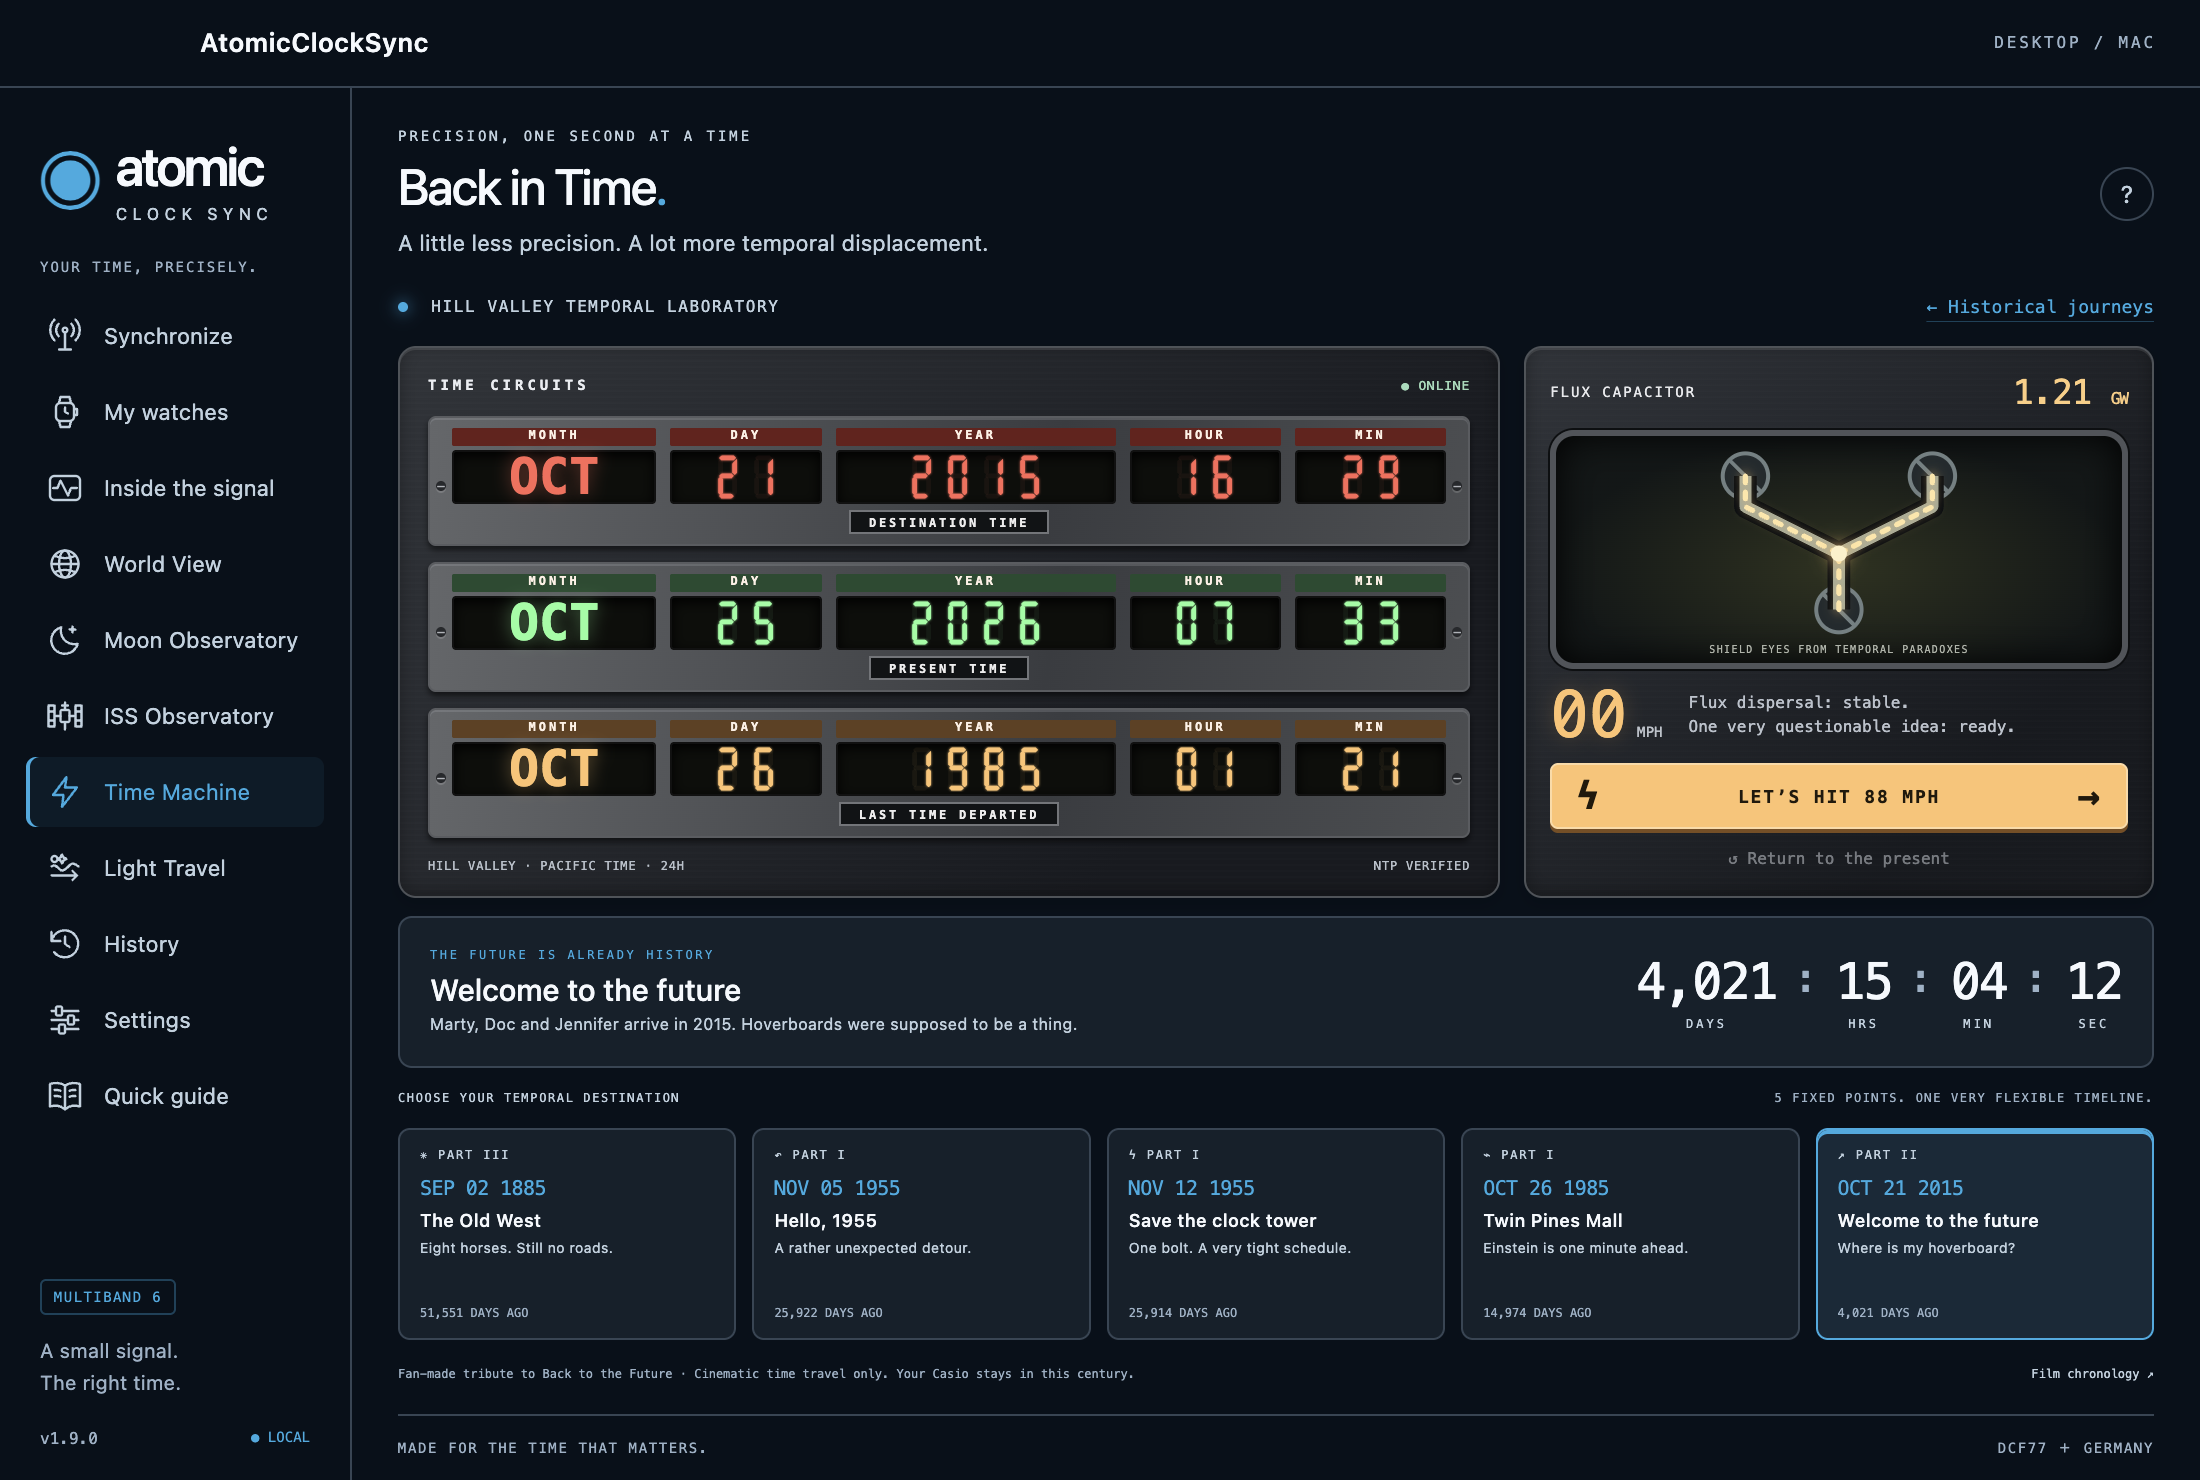
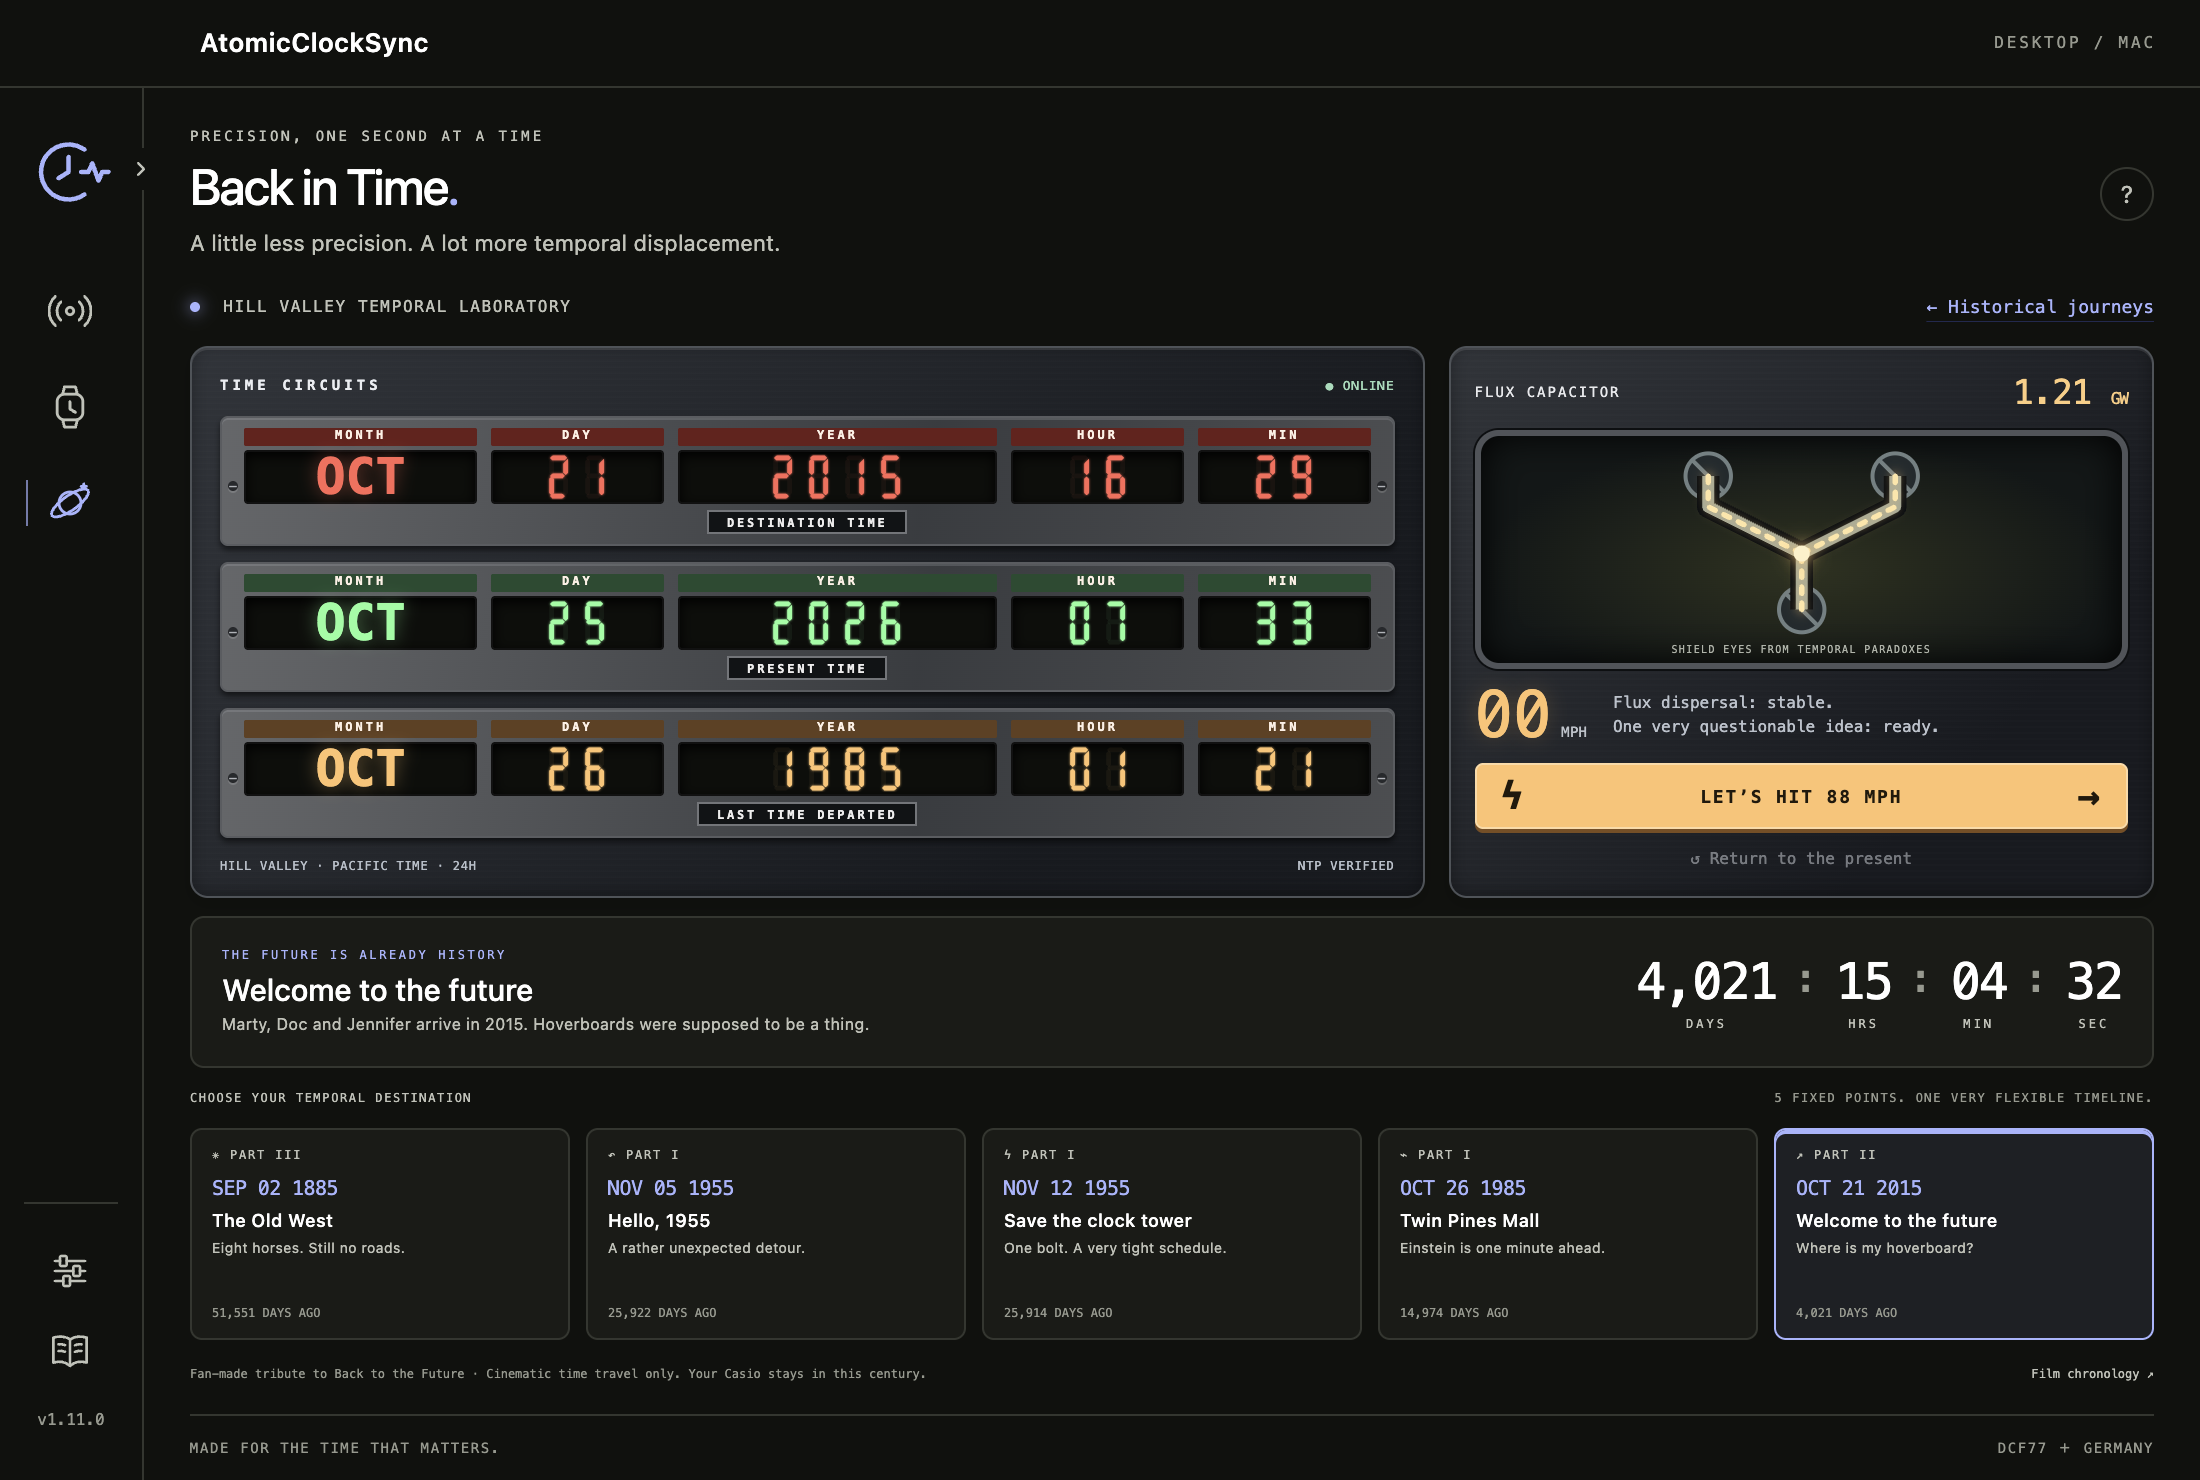
Refresh all README screenshots with Rainbow and Pulse Sync

diff --git a/README.md b/README.md
@@ -4,6 +4,15 @@ Sync compatible Casio watches through **Bluetooth** or simulated **Multiband 6 t
 
 ![Atomic Clock Sync — synchronization screen](docs/images/synchronization.png)
 
+Screenshots use the Rainbow theme, Pulse Sync branding and illustrative sample data. Views show the compact sidebar; expand the detail below to see its full navigation.
+
+<details>
+<summary>View the expanded Rainbow sidebar</summary>
+
+<img src="docs/images/sidebar-rainbow.png" alt="Pulse Sync logo and expanded sidebar in the Rainbow theme" width="236">
+
+</details>
+
 AtomicClockSync generates the time codes used by DCF77, MSF, WWVB, JJY and BPC. Choose a station, check the time, place your watch near a speaker or wired earphone, and start manual reception on the watch.
 
 Choose English, Italian, French, German, Spanish or Japanese in **Settings → Language**. Language changes apply immediately and are saved on this device. Source files and documentation are in English. Read the [full user guide](docs/USAGE.en.md) for setup, troubleshooting and protocol details.
@@ -229,7 +238,7 @@ Lime Green · Cyan Blue · Fuchsia Pink · Ruby Red · Champagne Gold · Seafoam
 
 The four pastel themes change only the accent color, preserving the original dark background and panels. Rainbow and Rainbow Soft share this dark base and assign blue to actions, violet to data, mint to the reference and confirmations, orange to transmission/progress and pink to errors. Choose a palette in **Settings → Theme**. The choice persists across launches and can change during transmission without changing audio settings.
 
-![Atlantic Blue theme in Settings](docs/images/settings-atlantic.png)
+![Rainbow theme and Pulse Sync logo in Settings](docs/images/settings-rainbow.png)
 
 ## Run from source
 
@@ -254,6 +263,7 @@ npm run test:desktop     # Real Electron and AudioWorklet; audio muted
 npm run test:navigation  # App identity, motion, rapid clicks, focus and live audio isolation
 npm run test:guide         # All manual prose/images in six languages, footer links and preview audio isolation
 npm run capture:guide      # Regenerate the manual screenshots from a temporary sample profile
+npm run capture:readme     # Regenerate all README screenshots in Rainbow with sample data
 npm run test:accuracy      # Offset journal, segmented drift, GET links, exports, languages and themes
 npm run test:reception-lab # Statistics, A/B comparison, preparation, locales and audio isolation
 npm run test:languages   # Six locales, all views, Japanese glyphs, persistence and live audio
